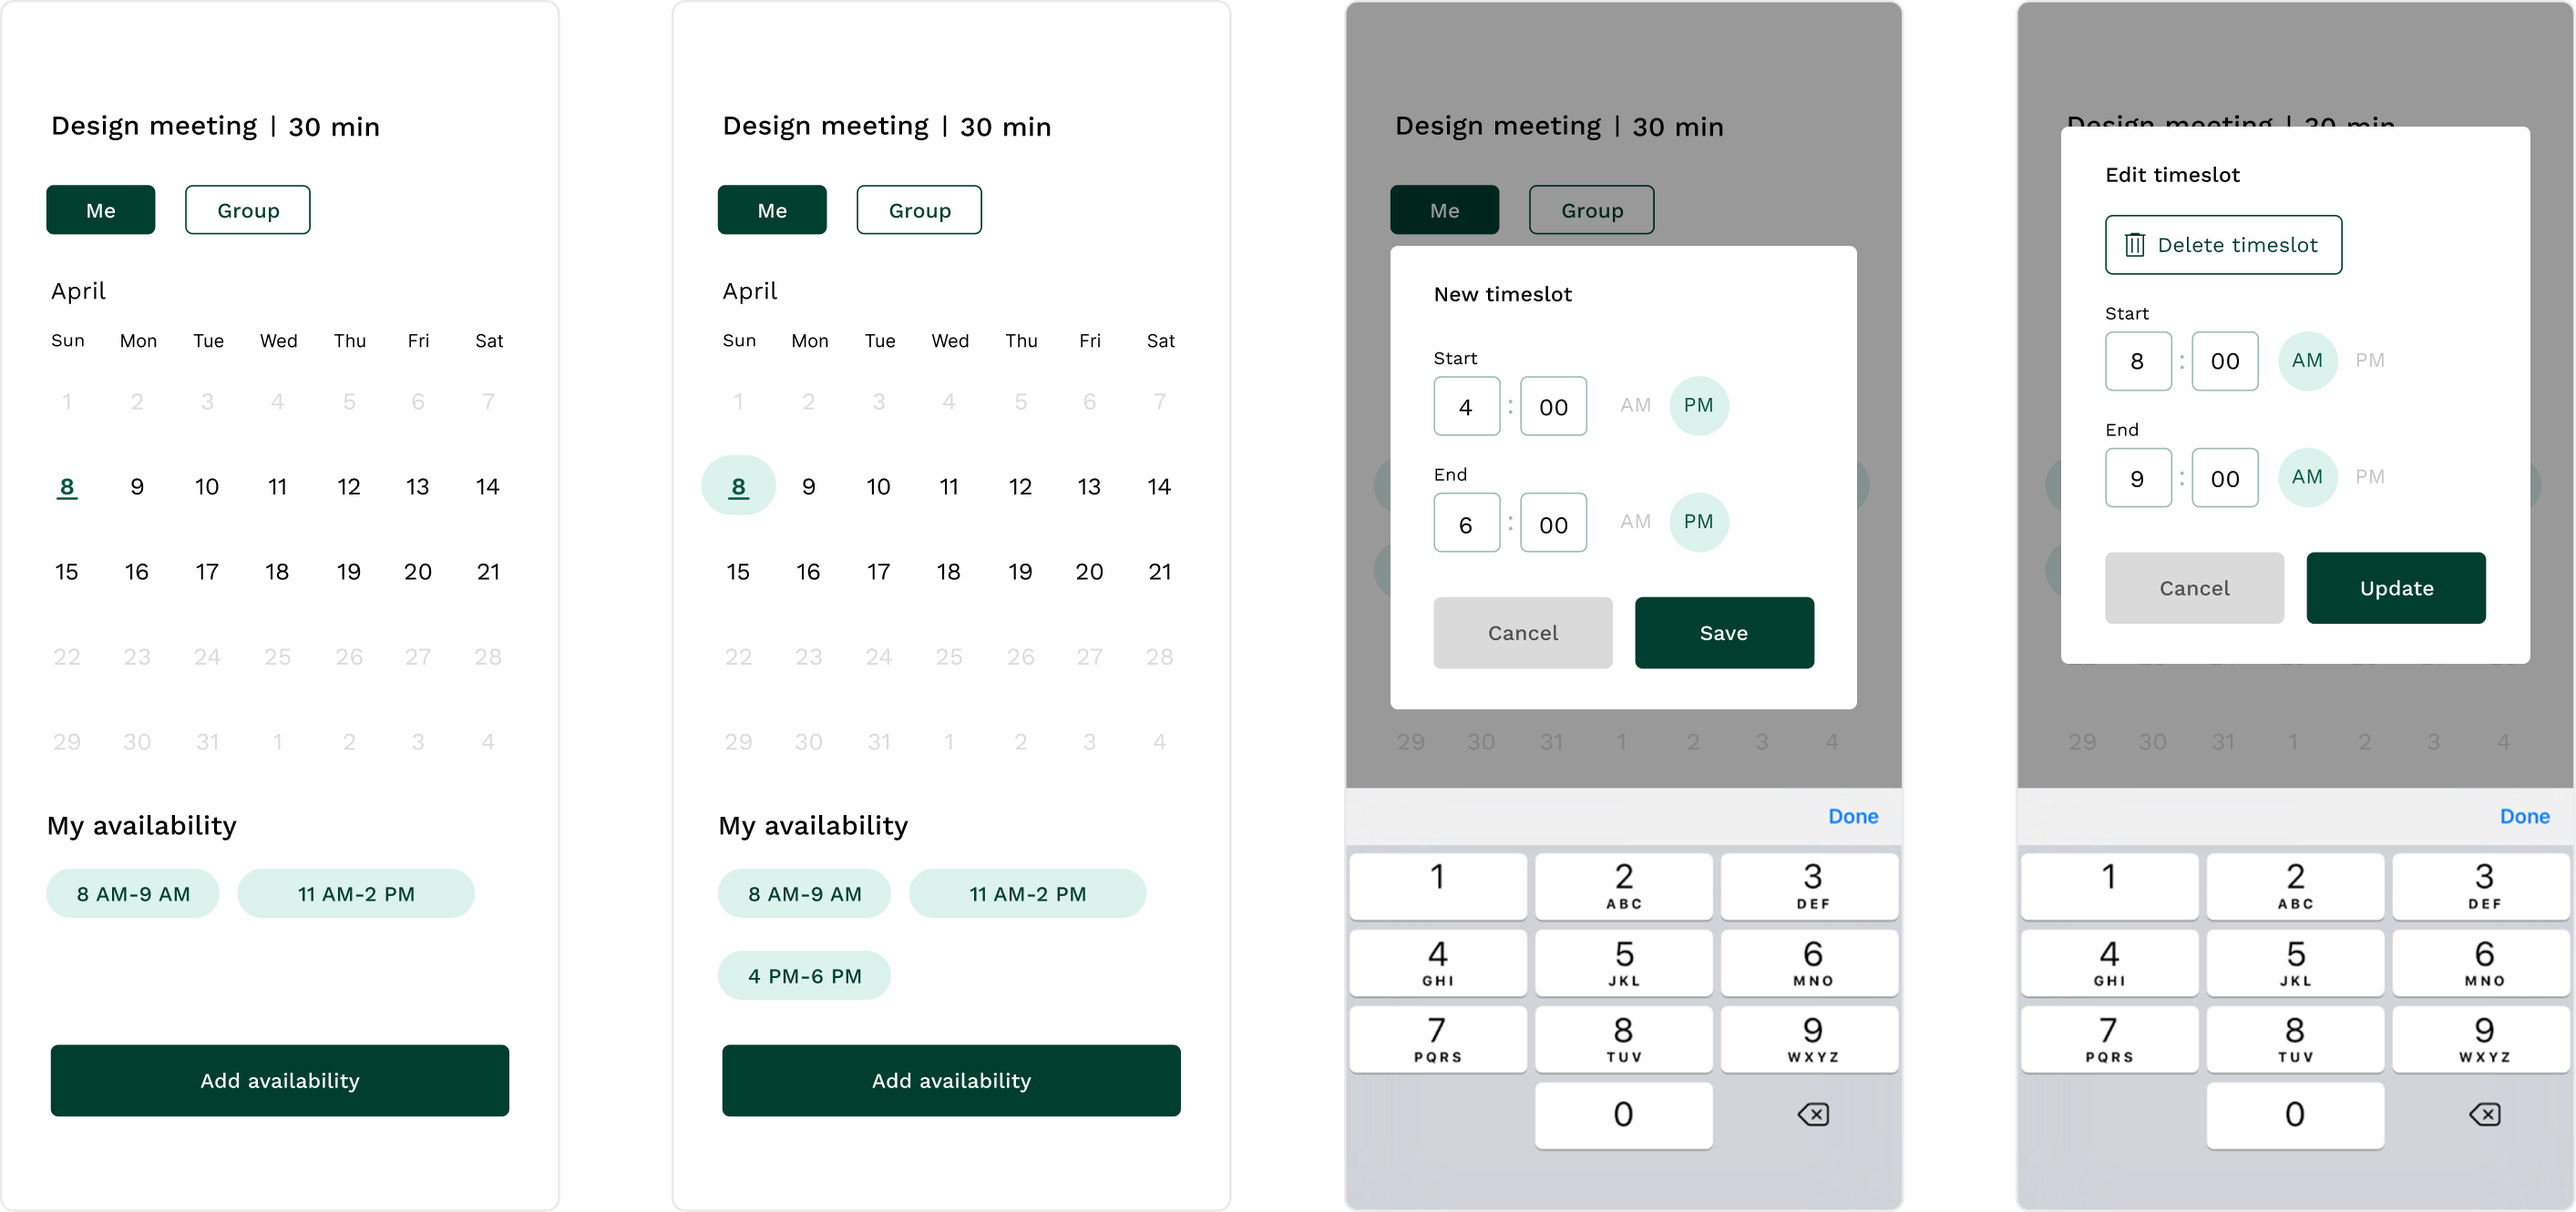
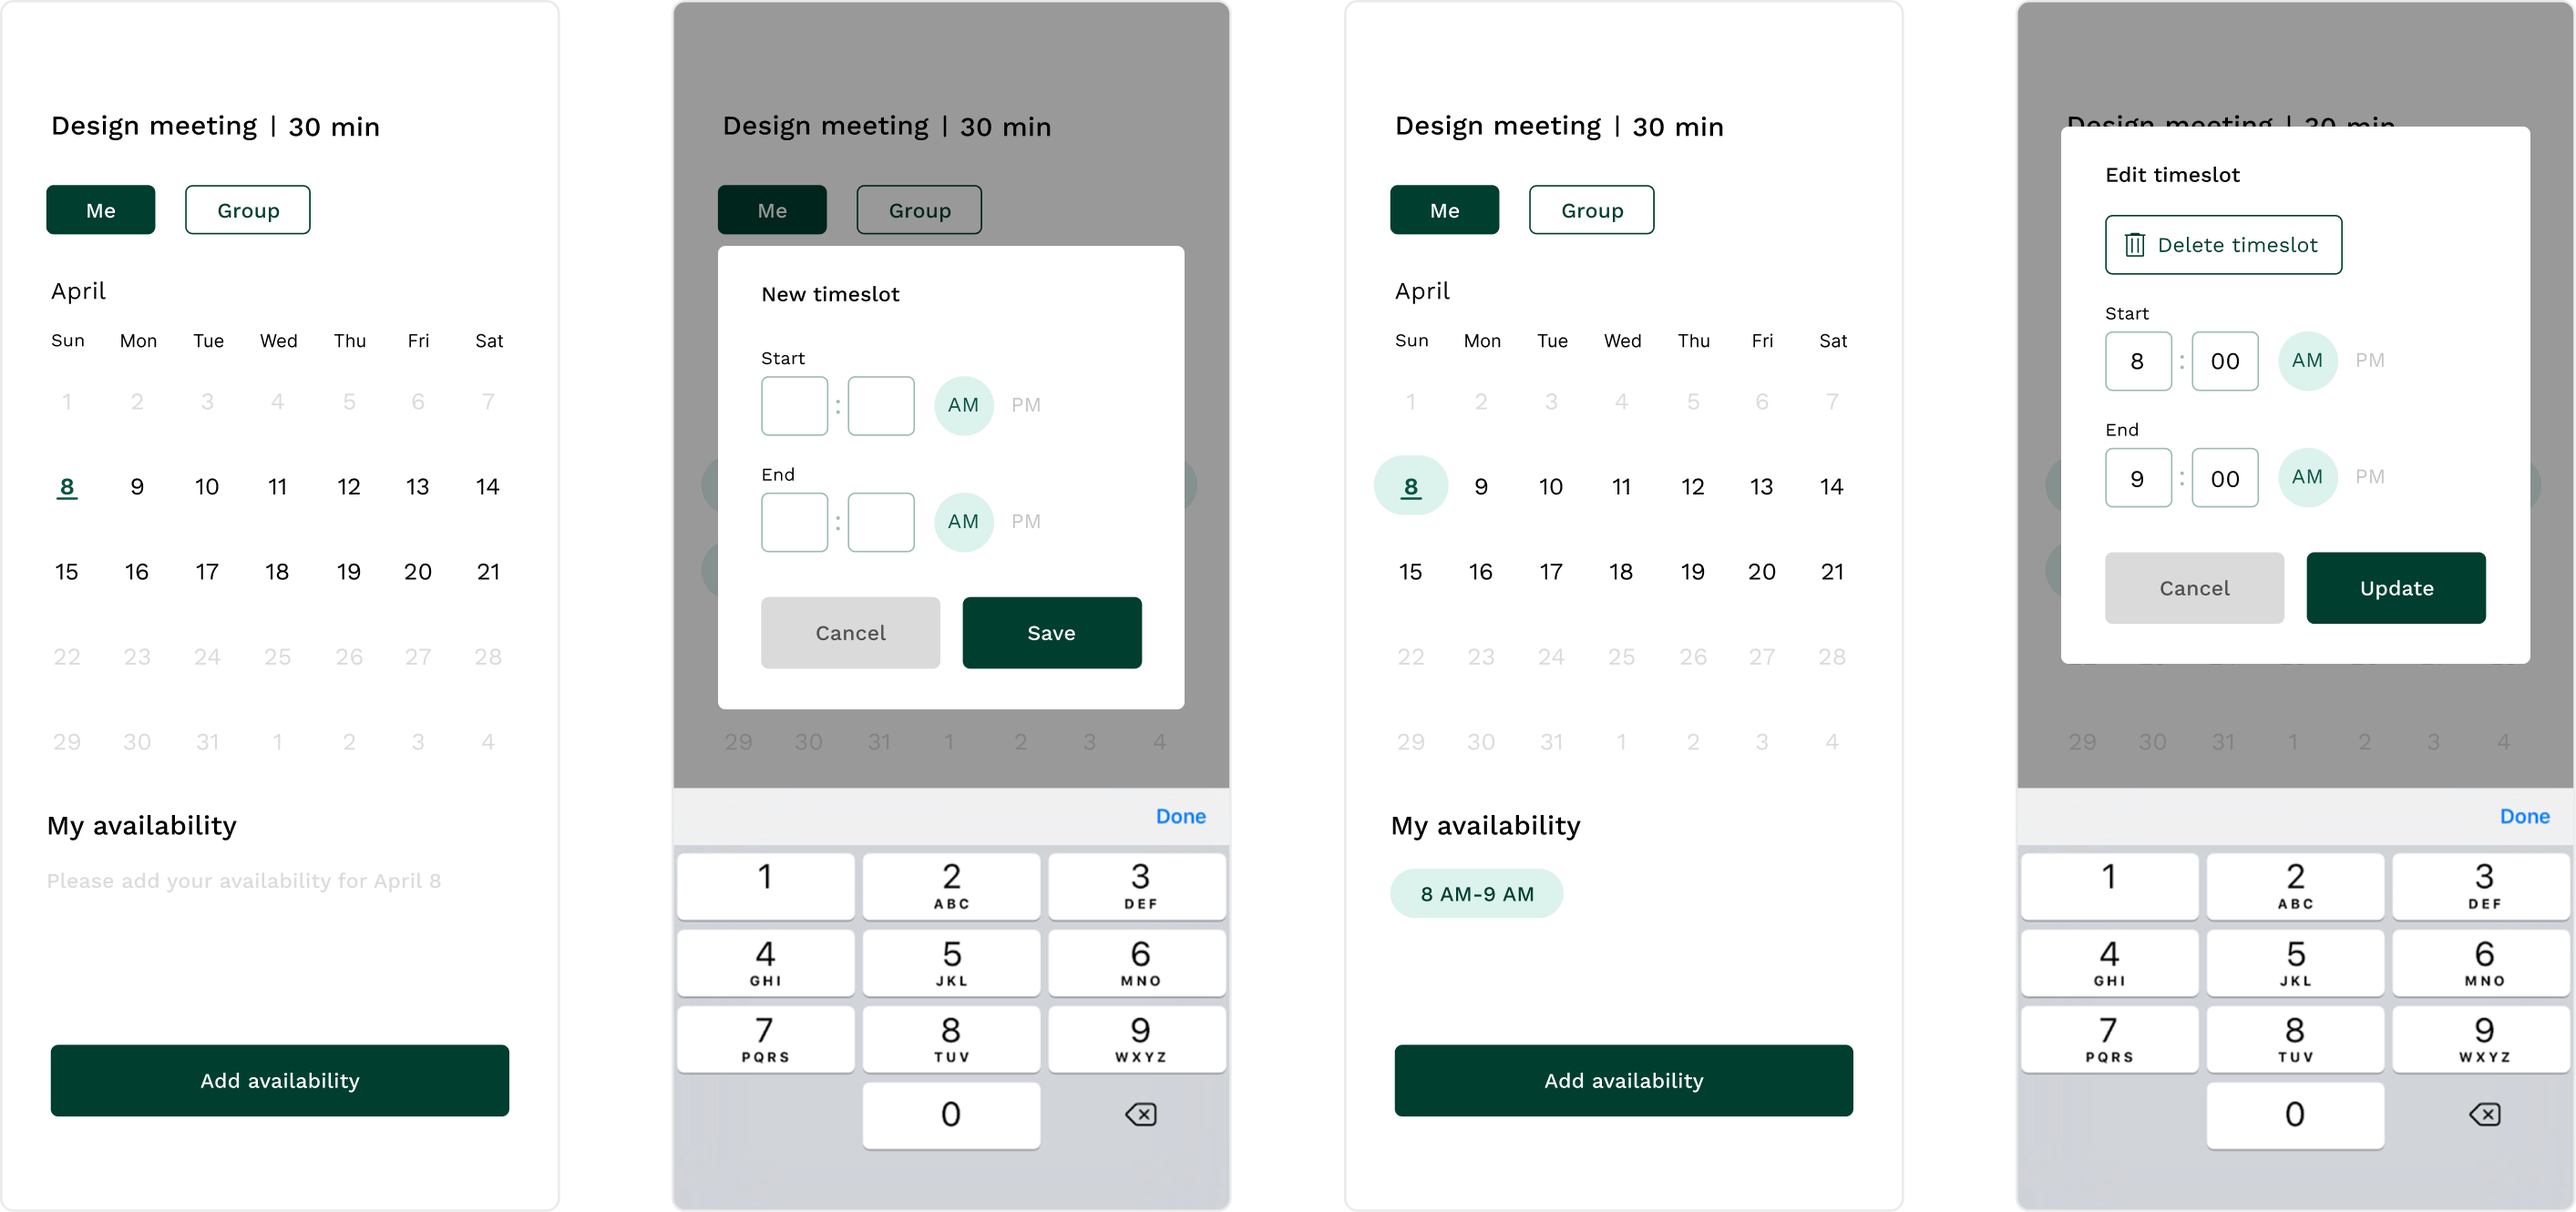
completing meetup

Changed region(s): [[0.249, 0.0, 0.7471, 1.0], [0.0, 0.7085, 0.1868, 0.7701], [0.3113, 0.308, 0.4047, 0.3696]]

diff --git a/site/src/components/Meetup.js b/site/src/components/Meetup.js
@@ -16,7 +16,9 @@ import meetwire2 from '../assets/meet-wire-2.png';
 import meetproto1 from '../assets/meet-proto-1.png';
 import meetproto2 from '../assets/meet-proto-2.png';
 import meetproto3 from '../assets/meet-proto-3.png';
+import meettest1 from '../assets/meet-test-1.png';
 import meetmobilecards from '../assets/meet-mobile-cards.png';
+import meetdeskcards from '../assets/meet-desk-cards.png';
 import meetdesk1 from '../assets/meet-desk-1.png';
 import meetdesk2 from '../assets/meet-desk-2.png';
 import NavBar from './NavBar';
@@ -506,42 +508,78 @@ function Meetup({ currPage, setCurrPage }) {
       <div className="project-wrap">
         <div className="subsection-header-sec">USER TESTING: ROUND 1</div>
         <div className="project-text">
-          Based on further user feedback, the second iteration aimed to improve the cohesiveness
-          of the design:
+          Using the initial prototype, I conduced user testing with 3 students, 1 from the user
+          interviews and 2 others who had responded to the survey and were
+          familiar with the project context. Users commented on:
           <ul>
             <li>
-              <div className="list-text">Changed all type to sans-serif font (Proxima Nova)</div>
-            </li>
-            <li>
               <div className="list-text">
-                Subtle color added to left sidebar to match rest of design
+                <span style={{ 'font-weight': '600' }}>Pleasant UI design </span>
+                with a simple aesthetic and clear emphasis on actionable areas
               </div>
             </li>
             <li>
-              <div className="list-text">Lightened and decreased size of bubbles next to course names</div>
+              <div className="list-text">
+                <span style={{ 'font-weight': '600' }}>Good clarity with tapping interaction </span>
+                for actually inputting availability, more mobile-friendly than dragging
+              </div>
+            </li>
+            <li>
+              <div className="list-text">
+                <span style={{ 'font-weight': '600' }}>Lack of clarity with the home page </span>
+                in terms of not understanding whether the main view shows group or individual
+                availability
+              </div>
+            </li>
+            <li>
+              <div className="list-text">
+                <span style={{ 'font-weight': '600' }}>No visualization of &ldquo;My availability&rdquo; </span>
+                since timeslots are all displayed as text instead of colored blocks like the
+                group section
+              </div>
+            </li>
+            <li>
+              <div className="list-text">
+                <span style={{ 'font-weight': '600' }}>Too many clicks </span>
+                required to even get to the adding/editing availability functionality (3 clicks
+                before availability is even added)
+              </div>
             </li>
           </ul>
         </div>
       </div>
       <div className="mockup">
-        {/* <img className="mockup-img" src={pitui2} alt="pit-ui-2" /> */}
+        <img className="mockup-img" src={meettest1} alt="meet-test-1" />
       </div>
       <div className="project-wrap">
         <div className="subsection-header-sec">PROTOTYPE: ITERATION 2</div>
         <div className="project-text">
-          Based on further user feedback, the second iteration aimed to improve the cohesiveness
-          of the design:
+          Based on the comments from Round 1 of user testing, I reorganized how the &ldquo;
+          Add availability&rdquo; user flow begins:
+          streamlined
+          the “Add availability” user flow and created clear emphasis on separate
           <ul>
             <li>
-              <div className="list-text">Changed all type to sans-serif font (Proxima Nova)</div>
-            </li>
-            <li>
               <div className="list-text">
-                Subtle color added to left sidebar to match rest of design
+                <span style={{ 'font-weight': '600' }}>Separate &ldquo;Me&rdquo; & &ldquo;Group&rdquo; </span>
+                sections to address the confusion on what information the main
+                view is initially presenting; indicated by buttons at the top to toggle the view
               </div>
             </li>
             <li>
-              <div className="list-text">Lightened and decreased size of bubbles next to course names</div>
+              <div className="list-text">
+                <span style={{ 'font-weight': '600' }}>Reduced number of clicks </span>
+                for adding/editing availability to streamline interaction; both functions are
+                accessed with 1 click in this iteration
+              </div>
+            </li>
+            <li>
+              <div className="list-text">
+                <span style={{ 'font-weight': '600' }}>Calendar layout </span>
+                to improve visualization of availability by highlighting days with provided
+                availability in bright mint and indicating the currently selected day with
+                an underline
+              </div>
             </li>
           </ul>
         </div>
@@ -552,42 +590,93 @@ function Meetup({ currPage, setCurrPage }) {
       <div className="project-wrap">
         <div className="subsection-header-sec">USER TESTING: ROUND 2</div>
         <div className="project-text">
-          Based on further user feedback, the second iteration aimed to improve the cohesiveness
-          of the design:
+          Continuing with the same users from the first round of testing, I collected feedback on
+          the second prototype. With this second round, comments mostly focused on how information
+          could be better indicated visually:
           <ul>
             <li>
-              <div className="list-text">Changed all type to sans-serif font (Proxima Nova)</div>
-            </li>
-            <li>
               <div className="list-text">
-                Subtle color added to left sidebar to match rest of design
+                <span style={{ 'font-weight': '600' }}>No side-by-side comparision of group & personal availability </span>
+                limits the information a user has at their immediate disposal when inputting their
+                own information
               </div>
             </li>
             <li>
-              <div className="list-text">Lightened and decreased size of bubbles next to course names</div>
+              <div className="list-text">
+                <span style={{ 'font-weight': '600' }}>Preference for further visual representation of availability </span>
+                since calendar visualizes overall time period across days but not timeslots on
+                individual days; suggestions made for a grid view calendar
+              </div>
+            </li>
+            <li>
+              <div className="list-text">
+                <span style={{ 'font-weight': '600' }}>Confusion with highlight vs. underline on date </span>
+                for which one is meant to indicate selected date or whether availability
+                was provided
+              </div>
+            </li>
+            <li>
+              <div className="list-text">
+                <span style={{ 'font-weight': '600' }}>One-click interaction </span>
+                for adding/editing availability improves previous flow and feels
+                less tedious
+              </div>
             </li>
           </ul>
         </div>
       </div>
-      <div className="mockup">
-        {/* <img className="mockup-img" src={pitui2} alt="pit-ui-2" /> */}
-      </div>
       <div className="project-wrap">
         <div className="subsection-header-sec">PROTOTYPE: ITERATION 3</div>
         <div className="project-text">
-          Based on further user feedback, the second iteration aimed to improve the cohesiveness
-          of the design:
+          The final solution mainly addresses the confusions and concerns around visual
+          representation of information with the introduction of a secondary grid view calendar:
           <ul>
             <li>
-              <div className="list-text">Changed all type to sans-serif font (Proxima Nova)</div>
-            </li>
-            <li>
               <div className="list-text">
-                Subtle color added to left sidebar to match rest of design
+                <span style={{ 'font-weight': '600' }}>Grid view calendar </span>
+                to supplement the original calendar view; the grid shows individual days
+                while the original layout still gives an overview of all dates that a
+                user can select from
               </div>
             </li>
             <li>
-              <div className="list-text">Lightened and decreased size of bubbles next to course names</div>
+              <div className="list-text">
+                <span style={{ 'font-weight': '600' }}>Scrollable side-by-side comparison columns </span>
+                in the grid view to solve for the issue of not having the ability to compare
+                personal and group availability in the previous prototype; a key indicates the
+                two types of availability shown by the columns
+              </div>
+            </li>
+            <li>
+              <div className="list-text">
+                <span style={{ 'font-weight': '600' }}>Highlighted date indicates selected date </span>
+                instead of a date with availability; this choice matches how a highlighted circle on
+                &ldquo;AM&rdquo; or &ldquo;PM&rdquo; indicates selection, so instead, a dot under
+                a date is used to show that a user previded availability
+              </div>
+            </li>
+            <li>
+              <div className="list-text">
+                <span style={{ 'font-weight': '600' }}>Meeting information section </span>
+                at the top of the screen contextualizes the meeting invite and informs
+                how users should provide their availability based on the meeting length
+              </div>
+            </li>
+            <li>
+              <div className="list-text">
+                <span style={{ 'font-weight': '600' }}>Tapping in the grid to add a timeslot </span>
+                in the grid view would allow for automatic population of the new timeslot&apos;s
+                starting time, helping counteract the additional tap added with the interaction
+                of swtiching from the main calendar to the grid view
+              </div>
+            </li>
+            <li>
+              <div className="list-text">
+                <span style={{ 'font-weight': '600' }}>Info on number of people available </span>
+                shown when a user taps a block of availability; this addresses the point from
+                the original user research showing that people value general information about
+                the group availability
+              </div>
             </li>
           </ul>
         </div>
@@ -599,31 +688,38 @@ function Meetup({ currPage, setCurrPage }) {
       <div className="project-wrap">
         <div className="subsection-header-sec">DESKTOP VERSION</div>
         <div className="project-text">
-          Based on further user feedback, the second iteration aimed to improve the cohesiveness
-          of the design:
+          After finalizing the mobile prototype, I created a desktop version to see how the mobile
+          version could scale. Some minor features/interactions were incorporated in the desktop
+          interface:
           <ul>
             <li>
-              <div className="list-text">Changed all type to sans-serif font (Proxima Nova)</div>
-            </li>
-            <li>
               <div className="list-text">
-                Subtle color added to left sidebar to match rest of design
+                <span style={{ 'font-weight': '600' }}>Timeslot preview when adding/editing availability </span>
+                shown when a user taps a block of availability; this addresses the point from
+                the original user research showing that people value general information about
+                the group availability
               </div>
             </li>
             <li>
-              <div className="list-text">Lightened and decreased size of bubbles next to course names</div>
+              <div className="list-text">
+                <span style={{ 'font-weight': '600' }}>Hover interactions for editing & group availability info </span>
+                shown when a user taps a block of availability; this addresses the point from
+                the original user research showing that people value general information about
+                the group availability
+              </div>
             </li>
           </ul>
         </div>
       </div>
       <div id="last-mockup">
         <img className="mockup-img" src={meetdesk1} alt="meet-desk-1" />
-        <img className="mockup-img" src={meetdesk2} alt="meet-desk-2" />
+        <img id="meet-desk-2" className="mockup-img" src={meetdesk2} alt="meet-desk-2" />
+        <img id="meet-desk-cards" className="mockup-img" src={meetdeskcards} alt="meet-desk-cards" />
       </div>
       <div className="project-wrap">
         <div className="section-header" id="prototype">Final Protoype</div>
         <div className="project-text">
-          add link to figma or embed? or screen record, add actual device mockups?
+          Figma Prototype Link
         </div>
         <div className="section-header" id="reflections">Reflections</div>
         <div className="project-text">

diff --git a/site/src/assets/index.css b/site/src/assets/index.css
@@ -1034,6 +1034,16 @@ ul {
   margin-top: 3rem;
 }
 
+#meet-desk-2 {
+  margin-top: 3rem;
+}
+
+#meet-desk-cards {
+  width: 35%;
+  margin: auto;
+  margin-top: 3rem;
+}
+
 #last-mockup {
   /* background-color: #F4FAFF; */
   display: flex;
